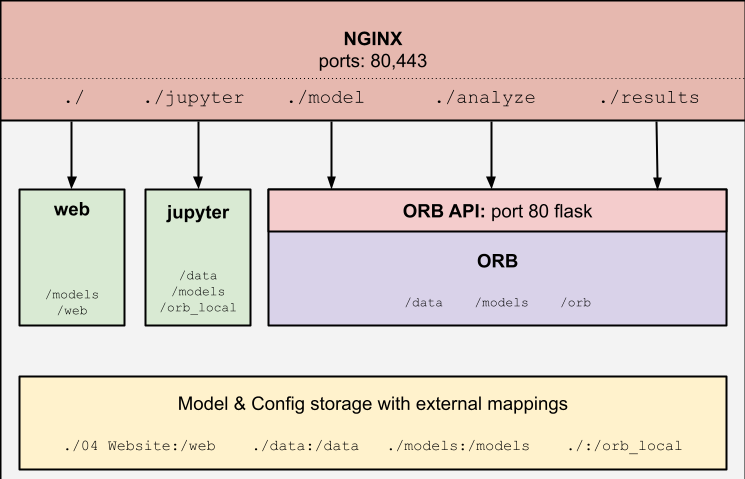
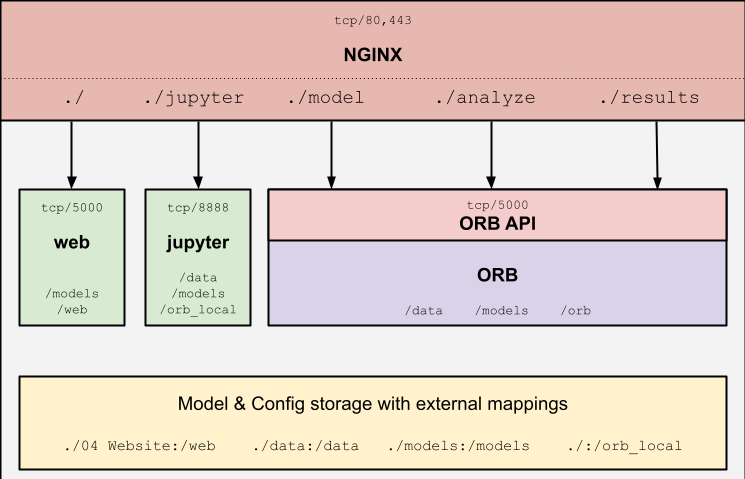
fixing port mappings for web/flask

diff --git a/pipeline/web/web_app.py b/pipeline/web/web_app.py
@@ -1,14 +1,14 @@
 from flask import Flask, render_template
 
-app = Flask(__name__)
+app = Flask(__name__, template_folder='/web/html')
 
 @app.route('/')
-def render_static():
+def index():
     return render_template('index.html')
 
-# @app.route('/<string:page_name>/')
-# def render_static(page_name):
-#     return render_template('%s.html' % page_name)
+@app.route('/assets/<string:page_name>')
+def render_static(page_name):
+    return render_template('static/%s' % page_name)
     
 if __name__ == '__main__':
     app.run()
